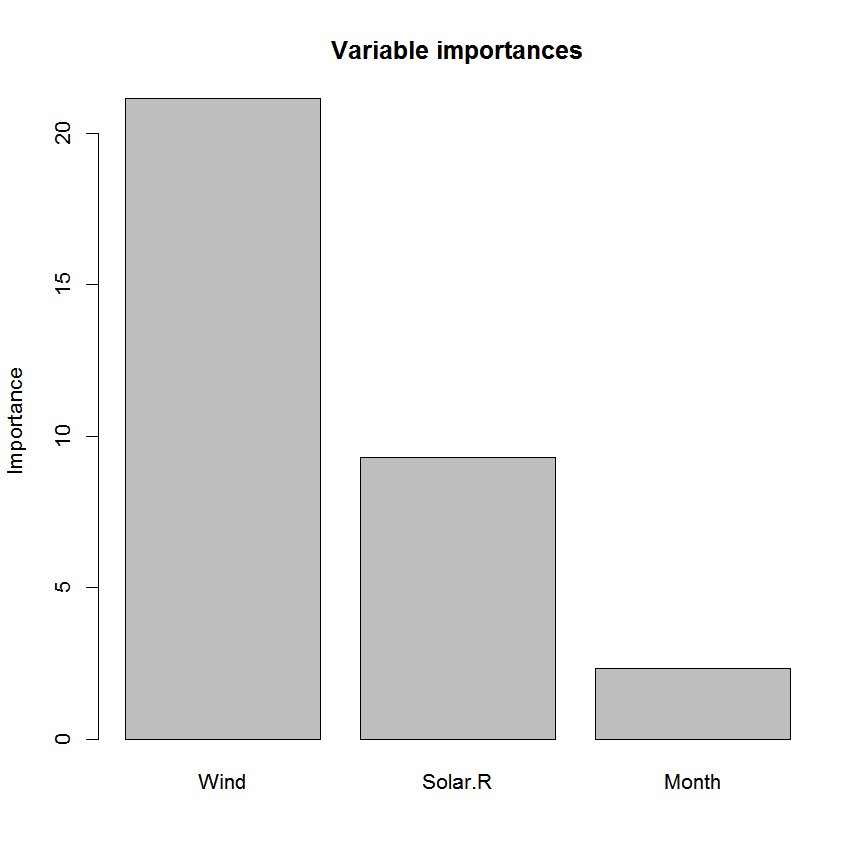
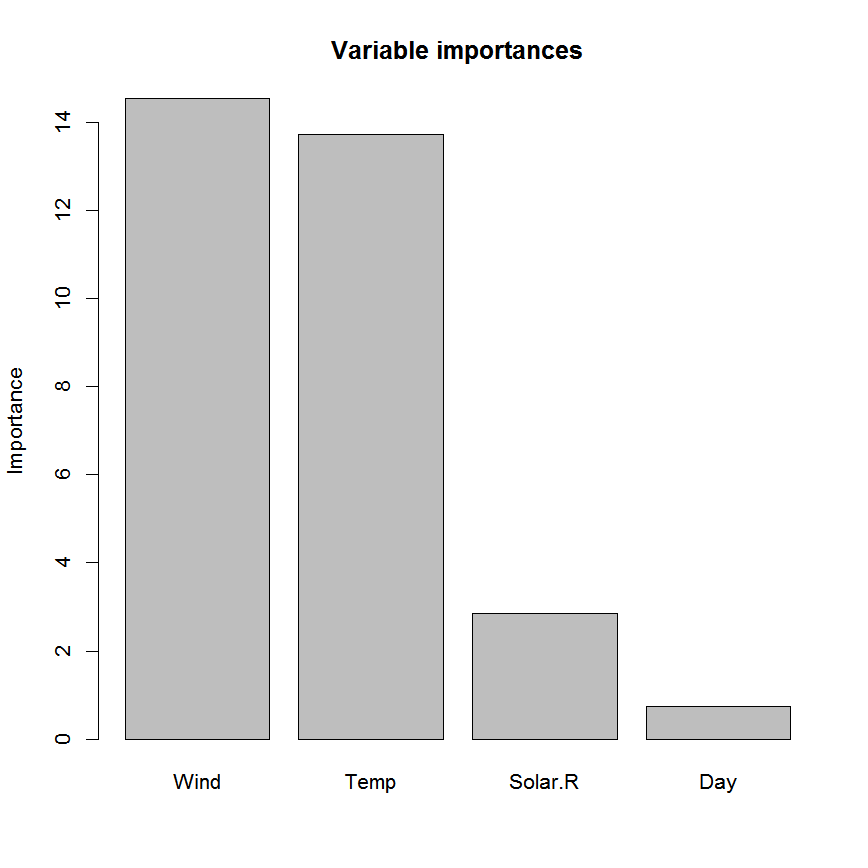
Updated readme

diff --git a/README.md b/README.md
@@ -20,7 +20,7 @@ To get a first impression of how pre works, we will fit a prediction rule ensemb
 library(pre)
 complete <- complete.cases(airquality)
 set.seed(42)
-airq.ens <- pre(identity(Ozone + Temp) ~ ., data = airquality[complete, ], standardize = TRUE)
+airq.ens <- pre(Ozone ~ ., data = airquality[complete, ], standardize = TRUE)
 ```
 
 We can print the resulting ensemble:
@@ -29,21 +29,30 @@ We can print the resulting ensemble:
 print(airq.ens)
 #> 
 #> Final ensemble with cv error within 1se of minimum: 
-#>   lambda =  6.862571
-#>   number of terms = 9
-#>   mean cv error (se) = 764.909 (129.2821) 
+#>   lambda =  4.17647
+#>   number of terms = 18
+#>   mean cv error (se) = 317.0573 (78.75351) 
 #> 
-#>          rule  coefficient                   description
-#>   (Intercept)  141.9909641                          <NA>
-#>        rule25  -17.3492833                    Wind > 5.7
-#>        rule72   12.2670362   Solar.R > 148 & Wind <= 8.6
-#>        rule12  -11.5242457       Wind > 6.3 & Month <= 5
-#>        rule62   10.9626070  Solar.R > 149 & Wind <= 10.3
-#>       rule104   10.7793652     Wind <= 8 & Solar.R > 201
-#>         rule4  -10.6405536                    Wind > 6.3
-#>        rule74   -8.5041926    Wind > 6.3 & Solar.R <= 78
-#>          Wind   -0.4078209         3.85 <= Wind <= 17.05
-#>        rule10   -0.2570948   Wind > 8.6 & Solar.R <= 149
+#>          rule   coefficient                          description
+#>   (Intercept)   67.15616051                                 <NA>
+#>        rule72  -12.13055473              Wind > 5.7 & Temp <= 84
+#>       rule213  -11.19466003              Wind > 5.1 & Temp <= 87
+#>       rule216    7.38360232         Wind <= 10.3 & Solar.R > 148
+#>         rule3    6.32585482              Temp > 78 & Wind <= 6.3
+#>       rule179   -5.42658558              Wind > 5.7 & Temp <= 82
+#>       rule122    4.66339857                            Temp > 77
+#>       rule201   -4.55678752  Wind > 5.7 & Temp <= 87 & Day <= 23
+#>       rule196   -4.08079273                           Wind > 5.7
+#>        rule25   -3.77748826              Wind > 6.3 & Temp <= 82
+#>        rule89    3.69069308              Temp > 77 & Wind <= 8.6
+#>        rule76   -2.32587691              Wind > 6.3 & Temp <= 84
+#>       rule119   -2.19972011                Wind > 8 & Temp <= 76
+#>       rule212    1.95297306                        Solar.R > 201
+#>       rule169   -1.20997908              Wind > 6.9 & Temp <= 82
+#>        rule28   -0.34433752              Temp <= 84 & Wind > 7.4
+#>       rule112   -0.27695874                Wind > 8 & Temp <= 77
+#>       rule141   -0.21062503          Wind > 6.3 & Solar.R <= 115
+#>       rule152   -0.01544867          Wind > 6.9 & Solar.R <= 149
 ```
 
 We can plot a subsample of the rules (and or/linear terms) in the ensemble:
@@ -52,19 +61,19 @@ We can plot a subsample of the rules (and or/linear terms) in the ensemble:
 plot(airq.ens, max.terms.plot = 9, cex = .75, penalty = "lambda.1se")
 ```
 
-![](inst/README-figures/README-unnamed-chunk-4-1.png)
+![](inst/README-figures/README-unnamed-chunk-4-1.png)![](inst/README-figures/README-unnamed-chunk-4-2.png)
 
 We can obtain the estimated coefficients of the ensemble:
 
 ``` r
 head(coef(airq.ens))
-#>           rule coefficient                  description
-#> 86 (Intercept)   141.99096                         <NA>
-#> 16      rule25   -17.34928                   Wind > 5.7
-#> 48      rule72    12.26704  Solar.R > 148 & Wind <= 8.6
-#> 9       rule12   -11.52425      Wind > 6.3 & Month <= 5
-#> 41      rule62    10.96261 Solar.R > 149 & Wind <= 10.3
-#> 75     rule104    10.77937    Wind <= 8 & Solar.R > 201
+#>            rule coefficient                  description
+#> 194 (Intercept)   67.156161                         <NA>
+#> 56       rule72  -12.130555      Wind > 5.7 & Temp <= 84
+#> 167     rule213  -11.194660      Wind > 5.1 & Temp <= 87
+#> 170     rule216    7.383602 Wind <= 10.3 & Solar.R > 148
+#> 3         rule3    6.325855      Temp > 78 & Wind <= 6.3
+#> 140     rule179   -5.426586      Wind > 5.7 & Temp <= 82
 ```
 
 We can assess the importance of the predictor variables, and each of the rules and/or linear terms in the ensemble:
@@ -76,22 +85,51 @@ importance(airq.ens)
 ![](inst/README-figures/README-unnamed-chunk-6-1.png)
 
     #> $varimps
-    #>   varname       imp
-    #> 1    Wind 21.142565
-    #> 2 Solar.R  9.281859
-    #> 3   Month  2.346010
+    #>   varname        imp
+    #> 1    Wind 14.5468307
+    #> 2    Temp 13.7227549
+    #> 3 Solar.R  2.8624749
+    #> 4     Day  0.7364116
     #> 
     #> $baseimps
-    #>      rule                  description       imp coefficient        sd
-    #> 1  rule72  Solar.R > 148 & Wind <= 8.6 5.6323040  12.2670362 0.4591414
-    #> 2  rule62 Solar.R > 149 & Wind <= 10.3 5.4412030  10.9626070 0.4963421
-    #> 3  rule25                   Wind > 5.7 5.4116777 -17.3492833 0.3119251
-    #> 4  rule12      Wind > 6.3 & Month <= 5 4.6920208 -11.5242457 0.4071434
-    #> 5 rule104    Wind <= 8 & Solar.R > 201 4.1617027  10.7793652 0.3860805
-    #> 6   rule4                   Wind > 6.3 3.9398902 -10.6405536 0.3702712
-    #> 7  rule74   Wind > 6.3 & Solar.R <= 78 3.2177031  -8.5041926 0.3783667
-    #> 8    Wind        3.85 <= Wind <= 17.05 0.1631283  -0.4078209 0.4000000
-    #> 9  rule10  Wind > 8.6 & Solar.R <= 149 0.1108044  -0.2570948 0.4309865
+    #>       rule                         description         imp  coefficient
+    #> 1   rule72             Wind > 5.7 & Temp <= 84 5.519647770 -12.13055473
+    #> 2  rule213             Wind > 5.1 & Temp <= 87 4.404371858 -11.19466003
+    #> 3  rule216        Wind <= 10.3 & Solar.R > 148 3.664792431   7.38360232
+    #> 4  rule179             Wind > 5.7 & Temp <= 82 2.551823934  -5.42658558
+    #> 5  rule122                           Temp > 77 2.330744260   4.66339857
+    #> 6    rule3             Temp > 78 & Wind <= 6.3 2.288493988   6.32585482
+    #> 7  rule201 Wind > 5.7 & Temp <= 87 & Day <= 23 2.209234898  -4.55678752
+    #> 8   rule25             Wind > 6.3 & Temp <= 82 1.800522363  -3.77748826
+    #> 9   rule89             Temp > 77 & Wind <= 8.6 1.708971893   3.69069308
+    #> 10 rule196                          Wind > 5.7 1.272901872  -4.08079273
+    #> 11  rule76             Wind > 6.3 & Temp <= 84 1.085599698  -2.32587691
+    #> 12 rule119               Wind > 8 & Temp <= 76 1.054892354  -2.19972011
+    #> 13 rule212                       Solar.R > 201 0.980556740   1.95297306
+    #> 14 rule169             Wind > 6.9 & Temp <= 82 0.592118612  -1.20997908
+    #> 15  rule28             Temp <= 84 & Wind > 7.4 0.169826217  -0.34433752
+    #> 16 rule112               Wind > 8 & Temp <= 77 0.134929351  -0.27695874
+    #> 17 rule141         Wind > 6.3 & Solar.R <= 115 0.091890415  -0.21062503
+    #> 18 rule152         Wind > 6.9 & Solar.R <= 149 0.007153494  -0.01544867
+    #>           sd
+    #> 1  0.4550202
+    #> 2  0.3934351
+    #> 3  0.4963421
+    #> 4  0.4702449
+    #> 5  0.4997952
+    #> 6  0.3617683
+    #> 7  0.4848229
+    #> 8  0.4766454
+    #> 9  0.4630490
+    #> 10 0.3119251
+    #> 11 0.4667486
+    #> 12 0.4795575
+    #> 13 0.5020841
+    #> 14 0.4893627
+    #> 15 0.4931970
+    #> 16 0.4871821
+    #> 17 0.4362749
+    #> 18 0.4630490
 
 We can generate predictions for new observations:
 
@@ -114,10 +152,10 @@ set.seed(43)
 airq.cv <- cvpre(airq.ens)
 airq.cv$accuracy
 #> $MSE
-#> [1] 790.7663
+#> [1] 375.8081
 #> 
 #> $MAE
-#> [1] 22.09351
+#> [1] 14.07948
 ```
 
 More complex prediction ensembles can be derived with the gpe() function. The abbreviation gpe stands for generalized prediction ensembles, which in addition to rules and linear terms may also include hinge functions of the predictor variables Friedman (1991). Addition of hinge functions may improve predictive accuracy (but may also reduce interpretability).
